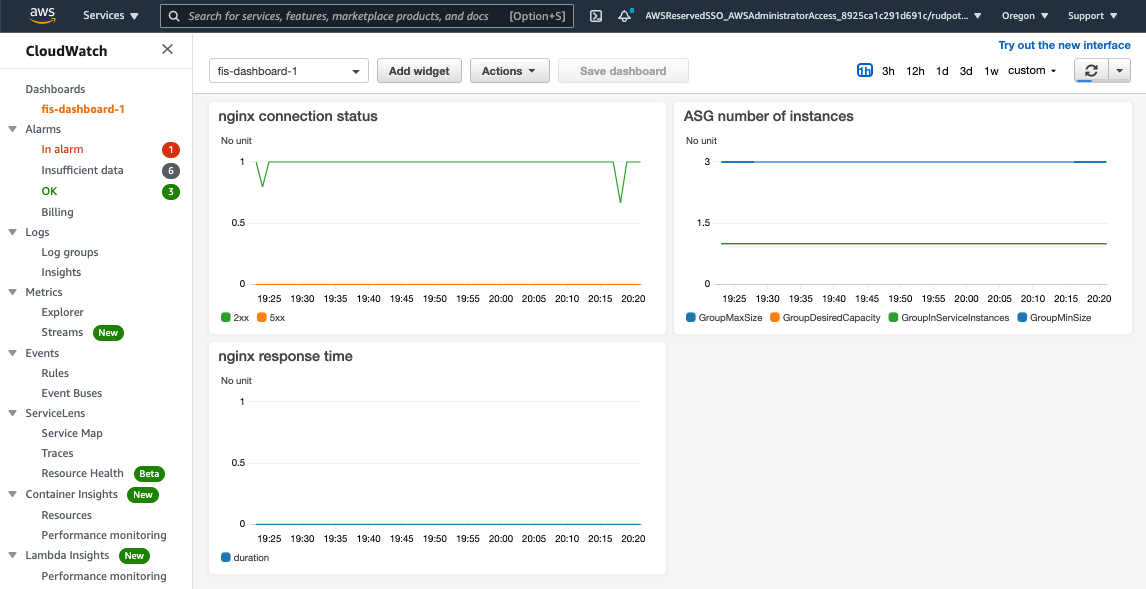
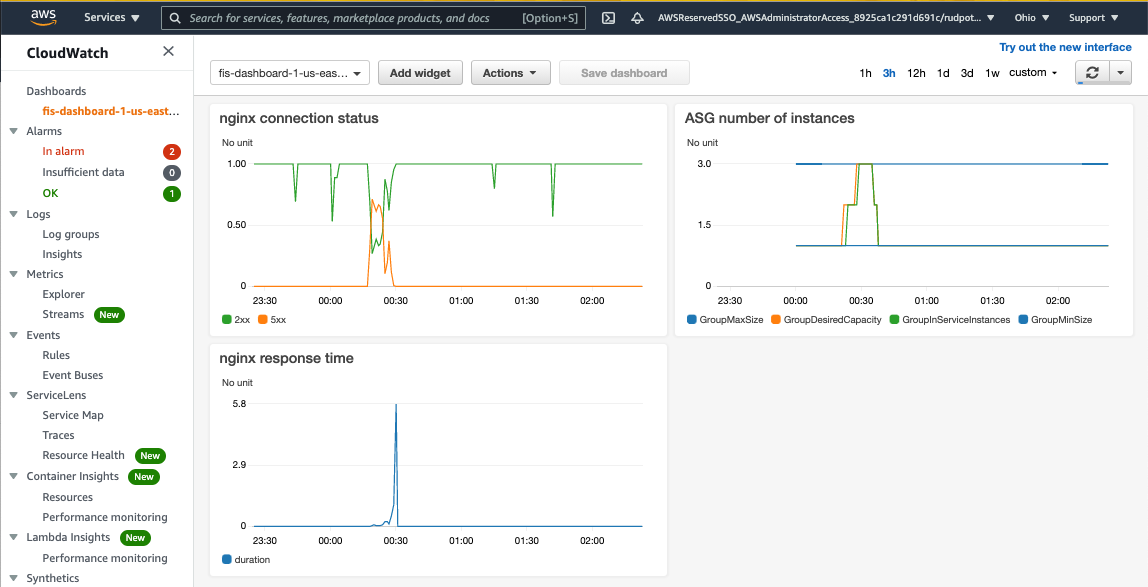
Update Synthetic User Experience writeup

diff --git a/workshop/content/30 Basic Content/020 working under load/_index.en.md b/workshop/content/30 Basic Content/020 working under load/_index.en.md
@@ -5,31 +5,104 @@ weight = 2
 
 To gain insights from our fault-injection tests we want to be able to correlate the user experience with the sysops view we've gained in the previous section. In production we could instrument the clients to send telemetry back to us but in non-production we don't usually have sufficient load to do this - and _you_ probably have better things to do than sit there clicking reload on a browser page while your experiment is running.
 
-{{% notice warning %}}
-Still need to figure out how to get my goat-redux included in an EE template so this is work to do and the description is how it "works on my desktop" right now.
-{{% /notice %}}
+## Generating load against our website
 
-We want to achieve two distinct goals: we want to generate enough load to capture a broad spectrum of user experiences and we want to collect the resulting telemetry so we can display it in our dashboard. For this we use https://github.com/rudpot/private-goad-redux (this is currently private, ask me for access) which deploys a lambda function that can be called for a variety of load scenarios.
+In the previous section you navigated to the basic website for our web server setup as well as the sysops performance dashboard. Open a linux terminal and save the URL from the previous page in an environment variable:
+
+```bash
+export URL_HOME=[PASTE URL HERE]
+```
+
+Next we need to generate load. There are many [load testing tools](https://en.wikipedia.org/wiki/Category:Load_testing_tools) available to generate a variety of load patterns. However, for the purpose of this workshop we have included a lambda function that will make HTTP GET calls to our site and log performance data to CloudWatch. To find the lambda function  navigate to [CloudFormation](https://console.aws.amazon.com/cloudformation/home), select the appropriate stack and click on the “Outputs” tab which will show you the lambda functon ARN:
+
+{{< img "cloudformation.en.png" "Cloudformation Lambda Function ARN" >}}
+
+and save the function name in another environment variable:
+
+```bash
+export LAMBDA_ARN=[PASTE ARN HERE]
+```
+
+Finally invoke the lambda function using the AWS CLI: 
+
+```bash
+aws lambda invoke \
+  --function-name ${LAMBDA_ARN} \
+  --payload "{
+        \"ConnectionTargetUrl\": \"${URL_HOME}\", 
+        \"ExperimentDurationSeconds\": 180,
+        \"ConnectionsPerSecond\": 1000,
+        \"ReportingMilliseconds\": 1000,
+        \"ConnectionTimeoutMilliseconds\": 2000,
+        \"TlsTimeoutMilliseconds\": 2000,
+        \"TotalTimeoutMilliseconds\": 2000
+    }" \
+  --invocation-type Event \
+  invoke.txt 
+```
+
+
+Now let's add some load. The invocation above will generate 1000 connections per second for 3 minutes. That seems like a lot so we would expect our site performance to degrade and auto-scaling to kick in. 
+
+## Explore impact of load
+
+While our load is running let's explore the setup a little more. 
+
+### Webserver logs and metrics
+
+The first thing we want to look at is our webserver logs. Because we are using auto-scaling and virtual machines can disappear, we have installed the [Unified CloudWatch Agent](https://docs.aws.amazon.com/AmazonCloudWatch/latest/logs/UseCloudWatchUnifiedAgent.html) on our webserver to write logs to a [CloudWatch Log Group](https://console.aws.amazon.com/cloudwatch/home?#logsV2:log-groups/log-group/$252Ffis-workshop$252Fnginx-access-log). 
+
+{{%expand "Navigating to CloudWatch Log Groups" %}}
+Log into the AWS console as described in **Getting Started**. From the "Services" dropdown navigate to "CloudWatch" under "Management & Governance" or use the search bar. On the left hand side expand the burger menu if necessary, the select "Logs" and "Log Groups". If you have many log groups you can search for `/fis-workshop/nginx-access-log`
+{{% /expand%}}
+
+{{< img "nginx-log-stream-1.en.png" "Nginx access log group" >}}
+
+Click through on the topmost entry and expand any of the log lines. You may notice that we've modified the nginx output format to use JSON instead of the default format:
+
+{{< img "nginx-log-stream-2.en.png" "Nginx access log" >}}
+
+While not necessary it makes it very easy to create [Metric Filters](https://docs.aws.amazon.com/AmazonCloudWatch/latest/logs/MonitoringPolicyExamples.html). Navigate back to the `/fis-workshop/nginx-access-log` log group and select the "Metric filters" tab. You will see that we have created filters to extract the count of responses with HTTP `status` codes in the `2xx` (good responses) and `5xx` (bad responses) ranges. We also created a filter to select all entries that have a `request_time` set. The resulting metrics can be found under  Metrics / All metrics / Custom Namespaces / fisworkshop. These are also the metrics for `nginx connection status` and `nginx response time` you saw on the dashboard in the previous section.
+
+Let's look at our dashboard:
+
+{{< img "dashboard-basic-home.en.png" "Load against home page" >}}
+
+That's odd, did anything happen? According to nginx we would think nothing happend. Maybe we should look at what the server CPU and the load runner have to say. For this we have added a more detailed dashboard:
+
+{{< img "dashboard-extended-home.en.png" "Load against home page" >}}
+
+Now it's more clear what happened: we were requesting a small static page and nginx is incredibly efficient. In the `server cpu` graph We can see minimal CPU utilization at the same time as the load data in the `goad` graphs. 
+
+## Increasing the load
+
+Clearly hitting a static page wasn't a good test to validate that our autoscaling setup works as intended. Fortunately the server also exposes a `phpinfo.php` page. Let's try hitting that instead. Define another environment variable and run the load test against the new URL. And because we really want to see scaling, let's run more than one copy:
+
+```bash
+export URL_PHP=${URL_HOME}/phpinfo.php
+
+for ii in 1 2 3; do
+  aws lambda invoke \
+    --function-name ${LAMBDA_ARN} \
+    --payload "{
+          \"ConnectionTargetUrl\": \"${URL_PHP}\", 
+          \"ExperimentDurationSeconds\": 180,
+          \"ConnectionsPerSecond\": 1000,
+          \"ReportingMilliseconds\": 1000,
+          \"ConnectionTimeoutMilliseconds\": 2000,
+          \"TlsTimeoutMilliseconds\": 2000,
+          \"TotalTimeoutMilliseconds\": 2000
+      }" \
+    --invocation-type Event \
+    invoke-${ii}.txt 
+done
+```
+
+While this is running we encourage you to explore CloudWatch logs and create some of your own dashboard views.
+
+{{< img "dashboard-extended-phpinfo.en.png" "Load against phpinfo page" >}}
+
+We finally generated enough load to force a scaling event. We also see how different the user experience is from what nginx reports. The user user times out after 2s and as such experiences substantial site unavailability. Nginx in contrast doesn't report this as error because the connection was terminated before being served. We will leave it as an exercise to the reader to figure out more details and will move on to actually running fault injection experiments.
 
 
 
-To do this we need to sim
-
-
-Our dashboard from the previous section shows us a sysops view of reality but our fault injection tests we 
-
-
-Section outcomes:
-
-* understanding system behavior BEFORE hitting it with Load / FIS
-  * explore single instance behavior (instance created by workshop setup template)
-  * validate website serving
-  * view logs 
-    * on instance (/var/log/nginx/)
-    * in cloudwatch (basic dashboard created by workshop setup template)
-* understanding system behavior under external load 
-  * run goad against static page and see metrics - essentially no impact
-  * run goad against computed page and see metrics - seeing error messages
-
-{{< img "dashboard2.en.png" "Image of architecture injected with chaos" >}}
-{{< img "dashboard.en.png" "Image of architecture injected with chaos" >}}

diff --git a/workshop/content/30 Basic Content/010-baselining/_index.en.md b/workshop/content/30 Basic Content/010-baselining/_index.en.md
@@ -40,7 +40,7 @@ To gain visibility into the user experience from the sysops side we've used the 
 {{< img "fis-dashboard-1.png" "Image of architecture to be injected with chaos" >}}
 
 {{%expand "Accessing the dashboard from the console" %}}
-To access the dashboard log into the AWS console as described in **Getting Started**. From the "Services" dropdown navigate to "CloudWatch" under "Management & Governance" or use the search bar. On the top left select "Dahsboards" and choose "fis-dashboard-1".
+To access the dashboard log into the AWS console as described in **Getting Started**. From the "Services" dropdown navigate to "CloudWatch" under "Management & Governance" or use the search bar. On the top left select "Dashboards" and choose "fis-dashboard-1".
 {{% /expand%}}
 
 In the next section we will cover how to measure the user experience. 
